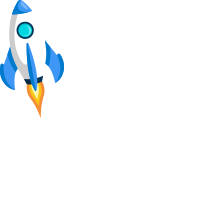
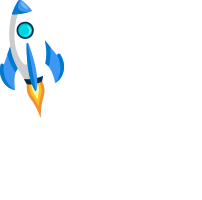
modify title rocket

Changed region(s): [[0.0, 0.18, 0.3267, 0.6], [0.0594, 0.03, 0.1782, 0.24], [0.0, 0.36, 0.0891, 0.45]]

diff --git a/dest/css/style.css b/dest/css/style.css
@@ -962,7 +962,8 @@ body {
     height: 120px;
     width: 120px;
     left: 30%;
-    bottom: -250px; }
+    bottom: -250px;
+    animation: moveUpDown 2s alternate infinite; }
     .indexVideo .indexVideoDec img {
       position: absolute;
       width: auto; }

diff --git a/dev/sass/pages/_index.scss b/dev/sass/pages/_index.scss
@@ -454,6 +454,7 @@ body{
         width: 120px;
         left: 30%;
         bottom: -250px;
+        animation: moveUpDown 2s alternate infinite;
         img{
             position: absolute;
             width: auto;
